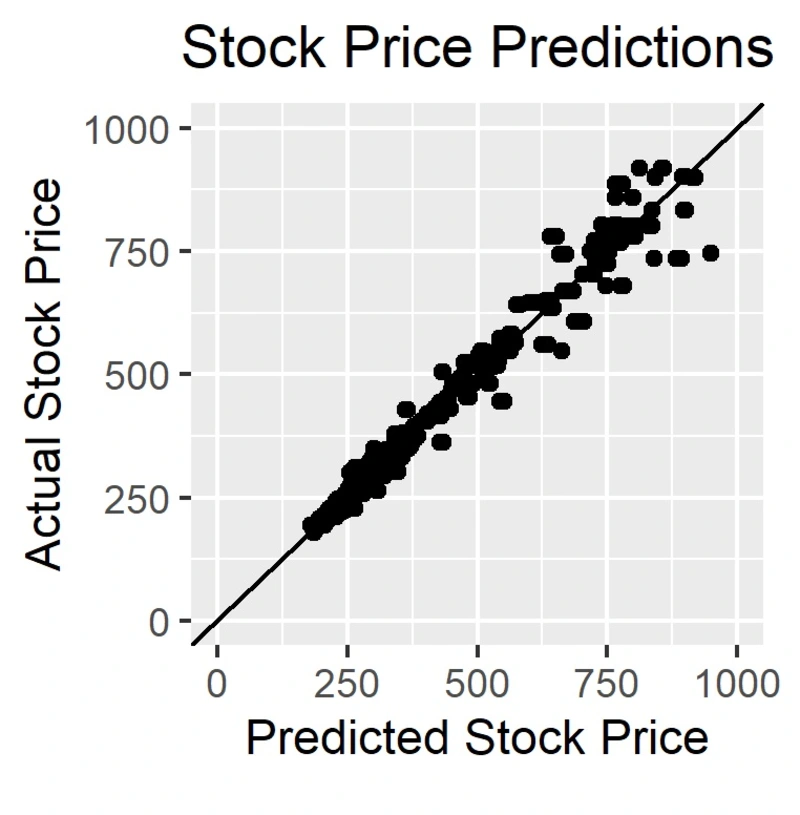
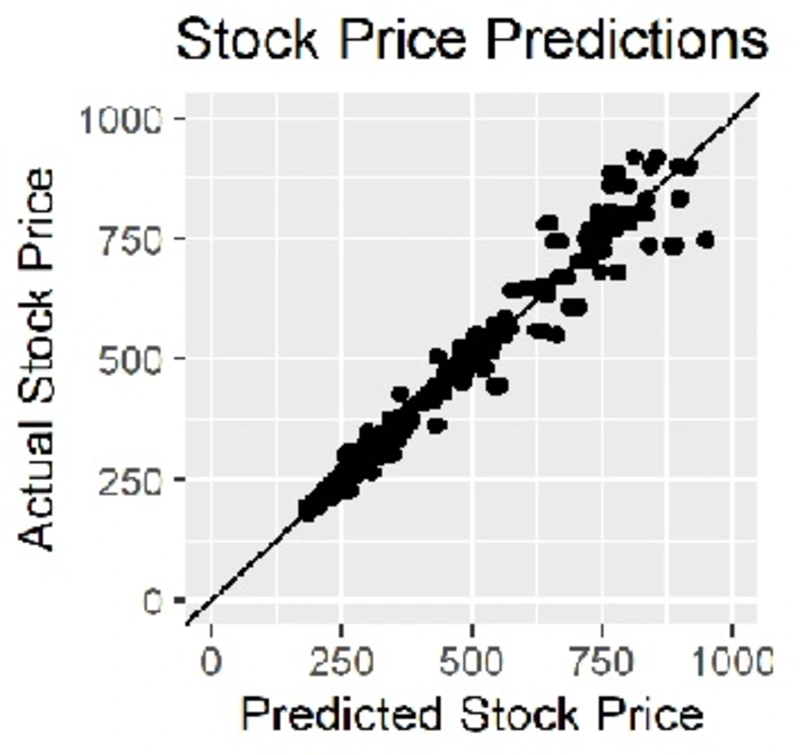
Deploying to gh-pages from @ DanielJunghans/danieljunghans.github.io@31c11228e4a1bd92368ff559b6cc38ede8426318 🚀

diff --git a/projects/index.html b/projects/index.html
@@ -228,13 +228,13 @@
 
   <picture>
     
-    <source class="responsive-img-srcset" media="(max-width: 480px)" srcset="/al-folio/assets/img/graph7.PNG-480.webp"></source>
-    <source class="responsive-img-srcset" media="(max-width: 800px)" srcset="/al-folio/assets/img/graph7.PNG-800.webp"></source>
-    <source class="responsive-img-srcset" media="(max-width: 1400px)" srcset="/al-folio/assets/img/graph7.PNG-1400.webp"></source>
+    <source class="responsive-img-srcset" media="(max-width: 480px)" srcset="/al-folio/assets/img/graph7_1-480.webp"></source>
+    <source class="responsive-img-srcset" media="(max-width: 800px)" srcset="/al-folio/assets/img/graph7_1-800.webp"></source>
+    <source class="responsive-img-srcset" media="(max-width: 1400px)" srcset="/al-folio/assets/img/graph7_1-1400.webp"></source>
     
 
     <!-- Fallback to the original file -->
-    <img src="/al-folio/assets/img/graph7.PNG" width="auto" height="auto" alt="project thumbnail" onerror="this.onerror=null; $('.responsive-img-srcset').remove();">
+    <img src="/al-folio/assets/img/graph7_1.jpg" width="auto" height="auto" alt="project thumbnail" onerror="this.onerror=null; $('.responsive-img-srcset').remove();">
 
   </picture>
 
